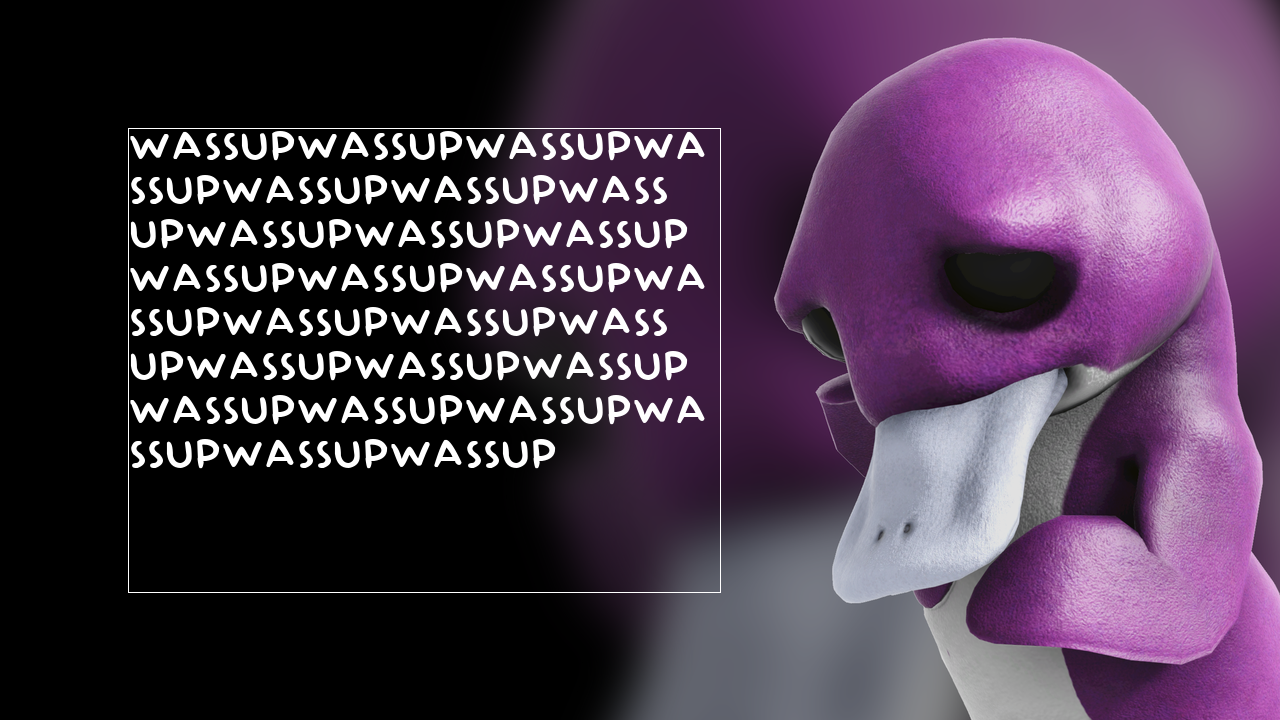
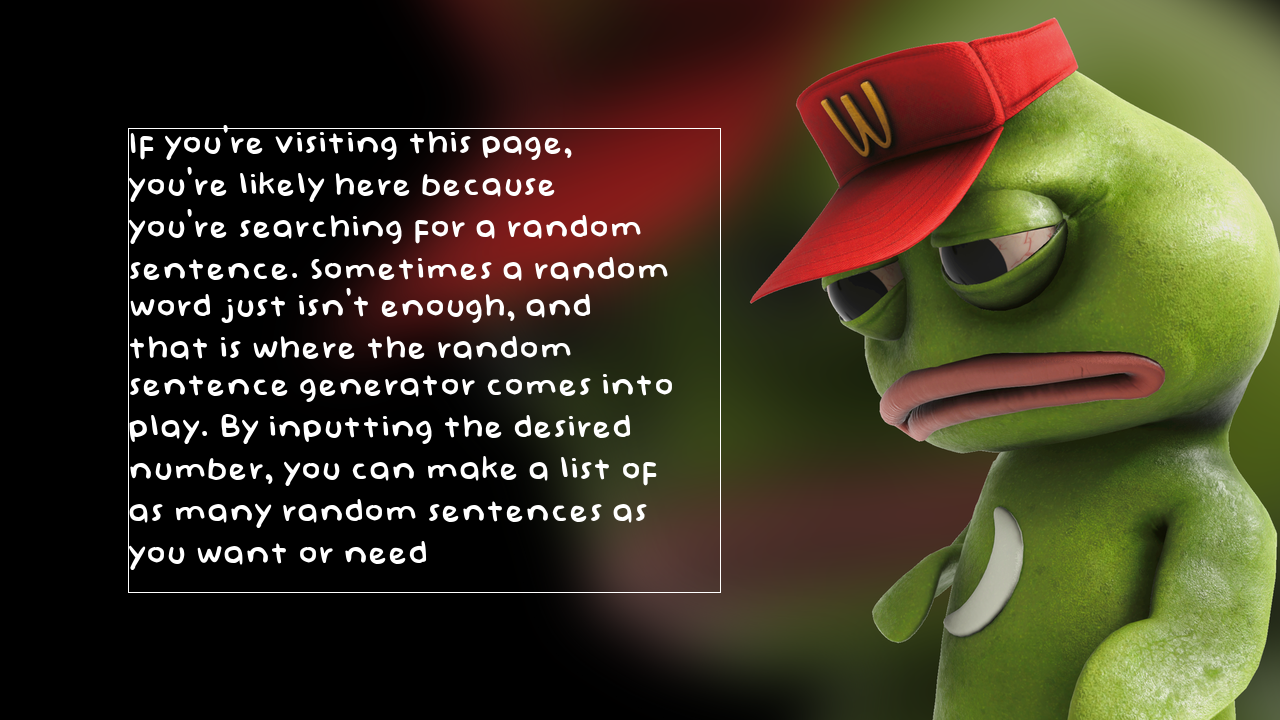
Add too long text

diff --git a/quote.py b/quote.py
@@ -14,7 +14,7 @@ def get_random_img():
 
 
 def write_to_pic(img, text):
-    font = ImageFont.truetype("font.ttf", size=48)
+    font = ImageFont.truetype("font.ttf", size=36)
     editable = ImageDraw.Draw(img)
     W, H = 1280, 720
 
@@ -25,8 +25,8 @@ def write_to_pic(img, text):
     len = editable.textlength(text, font=font, )
 
     start = offset = 128
-    for line in textwrap.wrap(text, width=20):
-        editable.text((start, offset), line, font=font, fill="#FFF", align="center")
+    for line in textwrap.wrap(text, width=30):
+        editable.text((start, offset), line, font=font, fill="#FFF", align="right")
         offset += font.getsize(line)[1] + 10
 
     # editable.text()
@@ -35,7 +35,8 @@ def write_to_pic(img, text):
 
 img = get_random_img()
 write_to_pic(img,
-             "WASSUPWASSUPWASSUPWASSUPWASSUPWASSUPWASSUPWASSUPWASSUPWASSUPWASSUPWASSUPWASSUPWASSUPWASSUPWASSUPWASSUPWASSUPWASSUPWASSUPWASSUPWASSUPWASSUPWASSUPWASSUPWASSUP")
+             "If you're visiting this page, you're likely here because you're searching for a random sentence. Sometimes a random word just isn't enough, and that is where the random sentence generator comes into play. By inputting the desired number, you can make a list of as many random sentences as you want or need")
+
 # resize
 exit(0)
 for image_path in os.listdir("bgs"):

diff --git a/main.py b/main.py
@@ -87,7 +87,7 @@ class SmolListener(tweepy.StreamingClient):
                 newTweetText = f'“{referencedTranslated}” - @{taggedPerson}\n\n#wassieverse'
 
                 if len(newTweetText) > 280:
-                    newTweetText = f'aw smoltext haz brok ~_~'
+                    newTweetText = f'aw smoltext haz brok, too lonk text ~_~'
                 elif referencedTranslated == "":
                     newTweetText = f'tbw i kant translate noting O_o'
 
